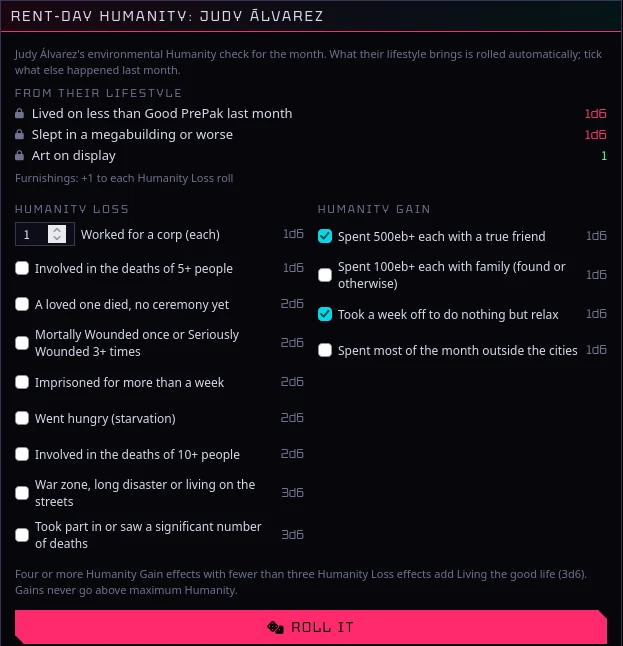
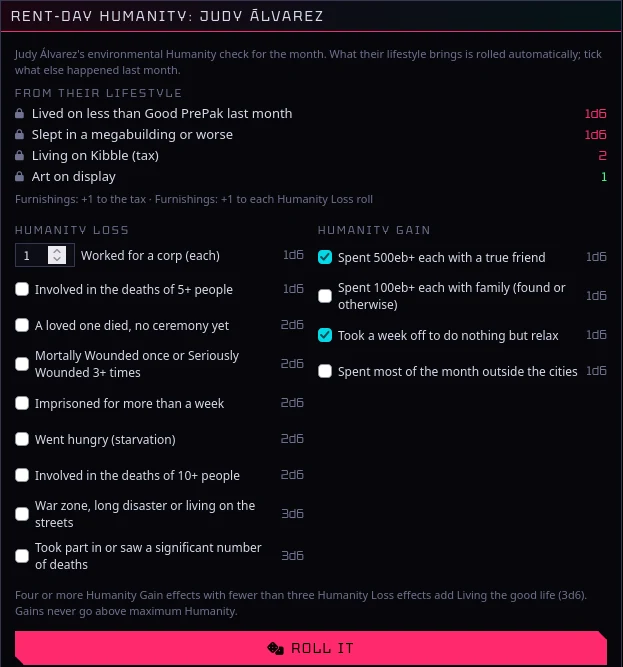
Show the 1.9.2 Kibble tax in the README
Re-capture the rent-day Humanity check with a Kibble character so the
tax line shows, and spell out which environmental effects are automatic
for each package and home, with the street's 3d6 left to the GM.

diff --git a/README.md b/README.md
@@ -271,9 +271,14 @@ numbers and mechanics are the homebrew's; the descriptions are Neon Hub's own.
 - The month's **environmental Humanity check** comes due. The GM opens it from the character's
   Lifestyle window or the month table: what their package, home, furnishings and displayed art
   bring is filled in, and the GM ticks the rest (worked for a corp, deaths, a loved one, a week off,
-  a true friend…). One click rolls it all, adds the furnishings' modifiers, the home's tax or credit
-  and the art, adds Living the good life when it applies, and applies the net change through the
-  Humanity ledger with a chat card. Gains stop at maximum Humanity; losses can reach Cyberpsychosis.
+  a true friend…). One click rolls it all, adds the furnishings' modifiers, the Humanity tax or
+  credit and the art, adds Living the good life when it applies, and applies the net change through
+  the Humanity ledger with a chat card. Gains stop at maximum Humanity; losses can reach Cyberpsychosis.
+- What comes automatically: Kibble is a 2 Humanity tax plus the 1d6 for living below Good PrePak;
+  Generic PrePak is the 1d6; Fresh Food a 2d6 gain. Homes add their tax or credit and roll: the
+  megabuilding-or-worse 1d6 (2d6 in a vehicle), the upscale 2d6 gain, and for a ship the 1d6 for
+  time outside the city too. Living on the street is a 6 tax and the 1d6; the 3d6 for living rough
+  is the GM's tick, for when it fits what happened.
 
 ![The GM's rent-day Humanity check: effects from the lifestyle filled in, the rest ticked by the GM](docs/lifestyle-2070-humanity.webp)
 
